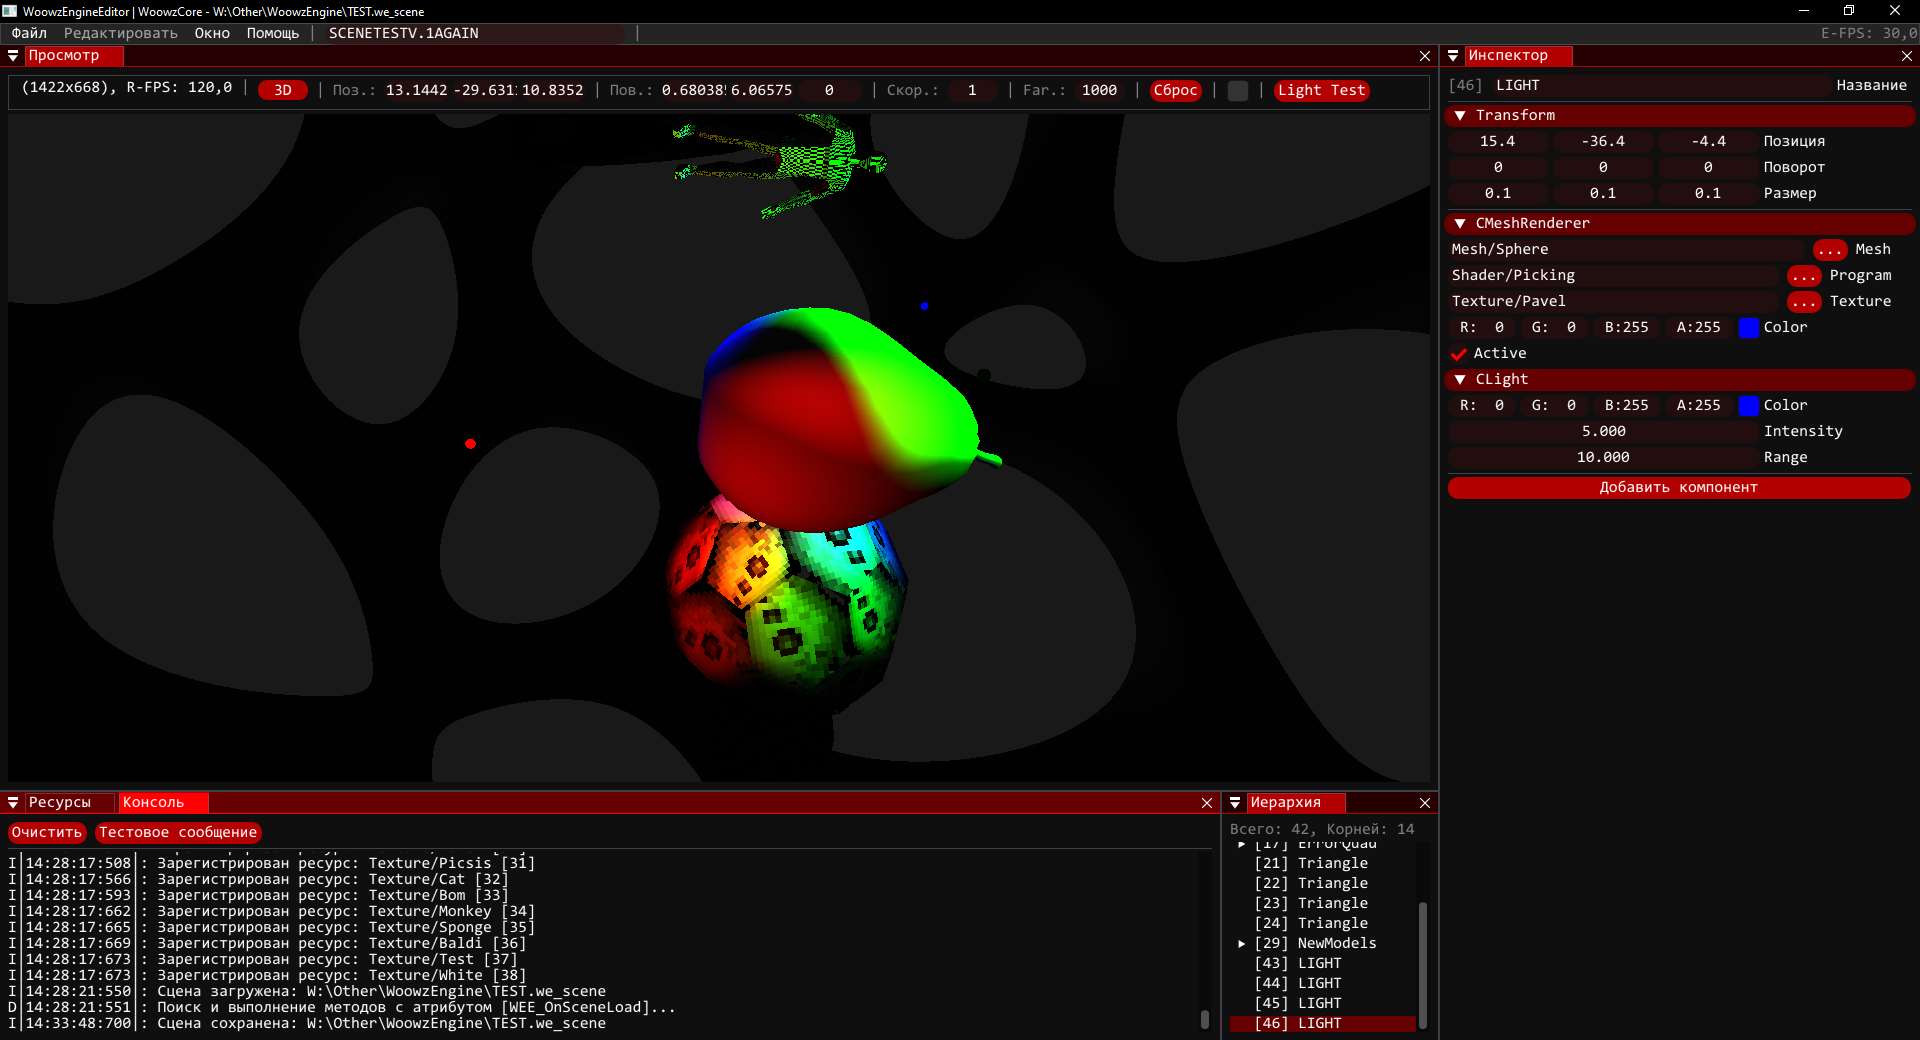
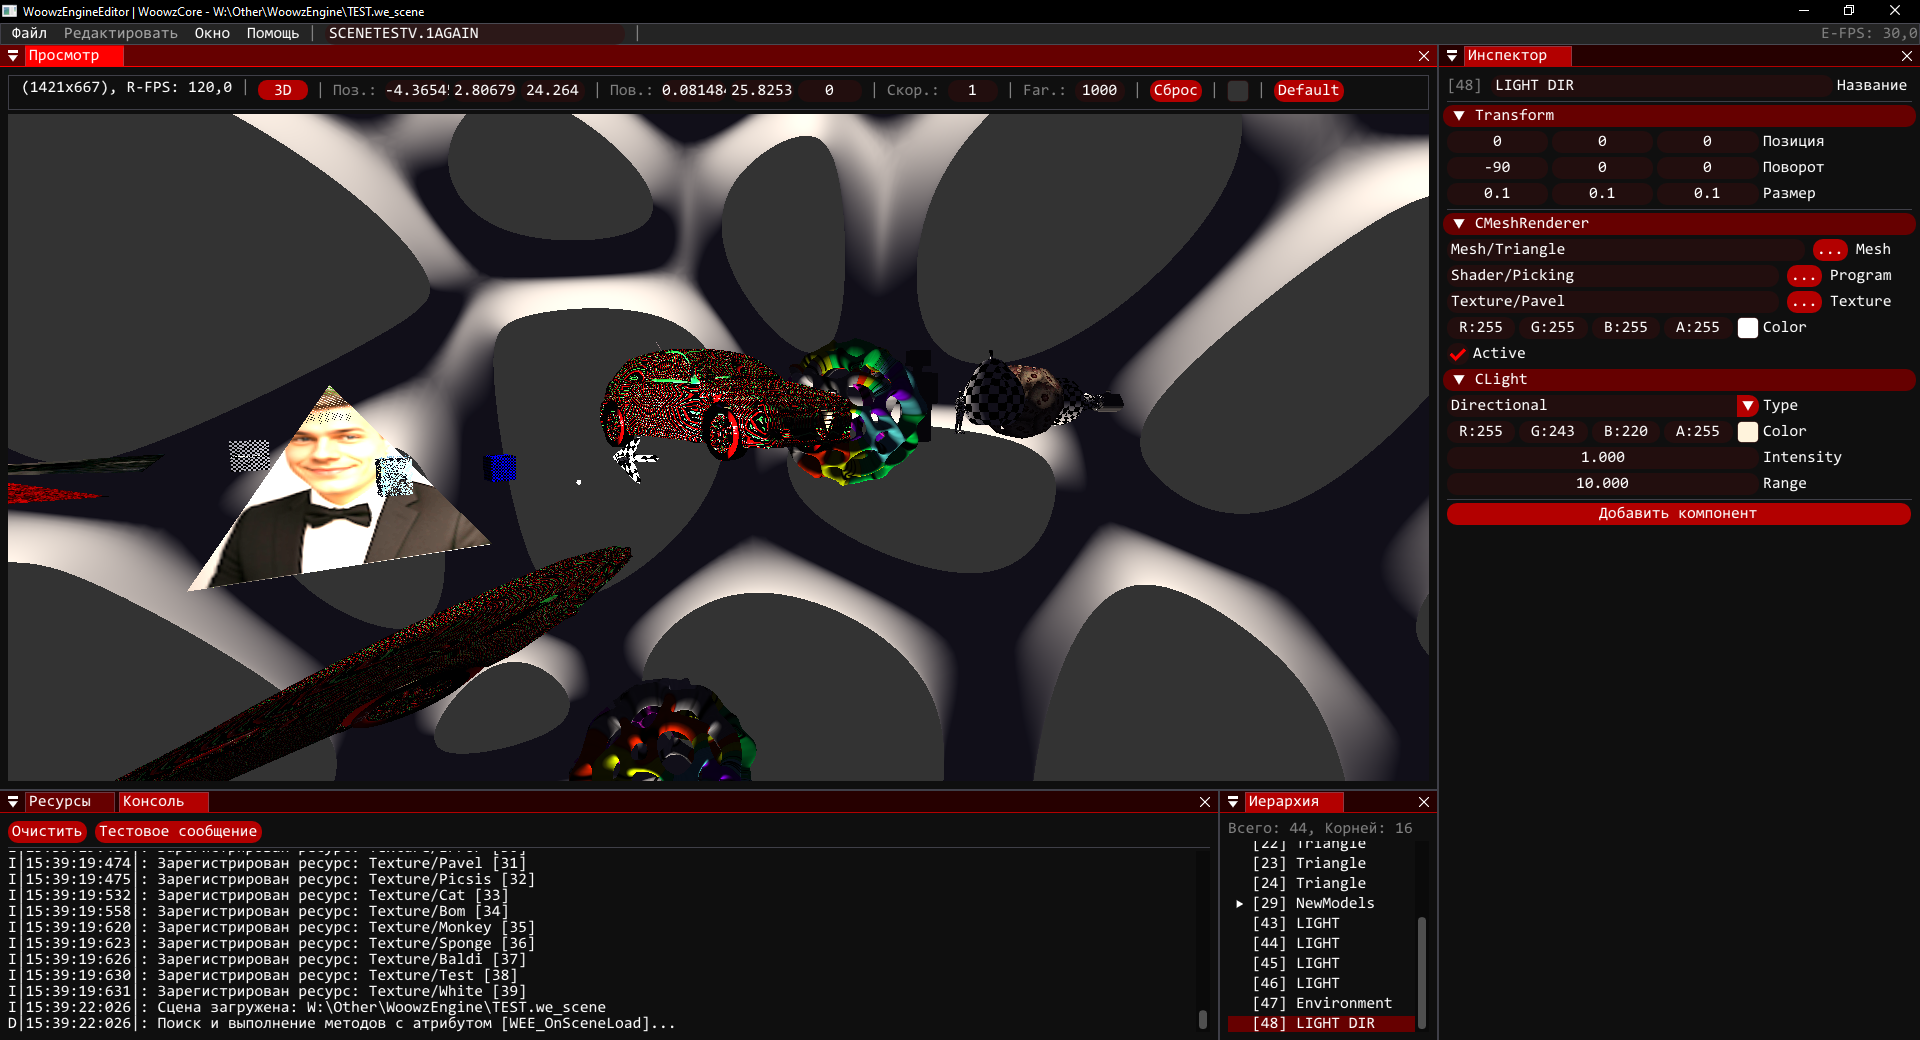
Ну тут мало, максимум enum в inspector 🥽🦺🧦

diff --git a/WoowzEngine/WoowzEngineEditor/WEE/Interface/I_Inspector.cs b/WoowzEngine/WoowzEngineEditor/WEE/Interface/I_Inspector.cs
@@ -241,6 +241,24 @@ public static class I_Inspector{
                 if(ImGui.ColorEdit4(Label, ref SysV)){
                     Field.SetValue(Component, new Color4B((byte)(SysV.X * 255), (byte)(SysV.Y * 255), (byte)(SysV.Z * 255), (byte)(SysV.W * 255)));
                 }
+            }else if(FieldType.IsEnum){
+                string[] Names = Enum.GetNames(FieldType);
+                string CurrentName = Value.ToString()!;
+
+                if(ImGui.BeginCombo(Label, CurrentName)){
+                    foreach(string Name in Names){
+                        bool IsSelected = CurrentName == Name;
+                        if(ImGui.Selectable(Name, IsSelected)){
+                            Field.SetValue(Component, Enum.Parse(FieldType, Name));
+                        }
+
+                        if(IsSelected){
+                            ImGui.SetItemDefaultFocus();
+                        }
+                    }
+                    
+                    ImGui.EndCombo();
+                }
             }
             
             ImGui.PopID();

diff --git a/WoowzEngine/WoowzEngine/WEO/Scene.cs b/WoowzEngine/WoowzEngine/WEO/Scene.cs
@@ -90,6 +90,14 @@ public class Scene : WLI.Packable{
         return [];
     }
 
+    public T? GetFirstComponent<T>() where T : class{
+        if(__Components.TryGetValue(typeof(T), out HashSet<Component>? Pool)){
+            foreach(Component Component in Pool){ return Component as T; }
+        }
+        
+        return null;
+    }
+
     internal void RegisterComponent(Component Component){
         Type? Type = Component.GetType();
         while(Type != null && Type != typeof(object)){
